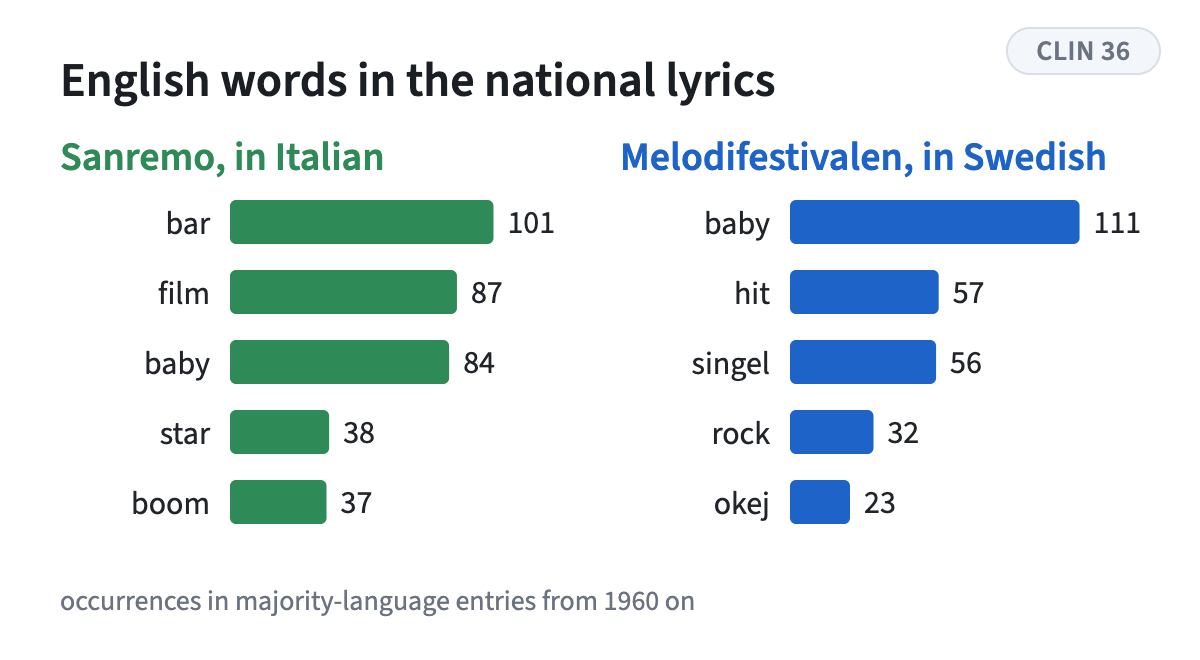
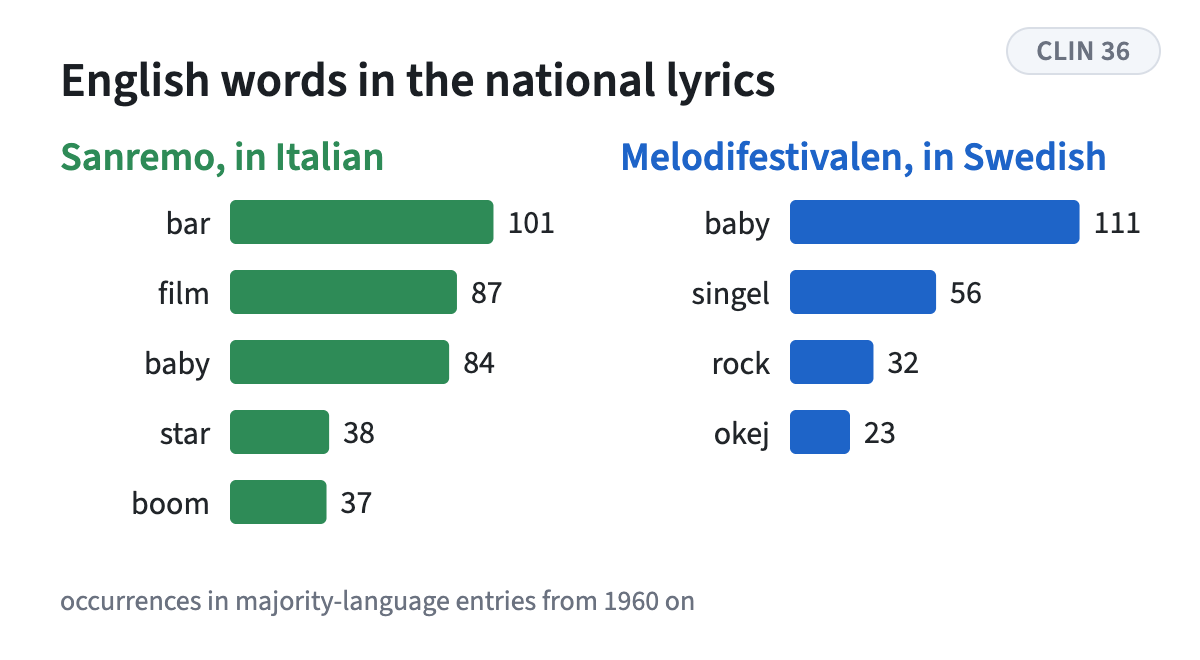
Descriptive BibTeX keys on every publication page and in publications.bib; drop the discarded 'hit' bar from the SanreMello anglicism chart

diff --git a/_figures/numbers.md b/_figures/numbers.md
@@ -30,4 +30,4 @@ Schematic only, no numbers. Source: the abstract on the publication page.
 Table 4, composite performance scores on the REMAIN frame, F1: local dependency preference +17.7, network connection strength +7.1, frequency-based priority -63.6. Section 4: best grammar F1 0.70 (precision 0.81, recall 0.61) with network connection strength. Source: the paper PDF in `phd_thomas/publications/`.
 
 ## 2026-clin36-sanremello (CLIN 36 poster)
-Dataset card of `sanremello/smlc-features`: 3,369 entries, Sanremo 2,220 across 76 editions (1951 to 2026), Melodifestivalen 1,149 across 66 editions (1958 to 2026), audio scored for 2,168 tracks. Anglicism occurrence counts from `mello_sanremo_nlp/docs/poster/examples.md` (majority-language entries from 1960 on): Sanremo bar 101, film 87, baby 84, star 38, boom 37; Melodifestivalen baby 111, hit 57, singel 56, rock 32, okej 23. The language-rule break at Melodifestivalen is 2002 (the national final kept Swedish until then), as corrected in the project after the abstract was submitted with 1999. Source: the book of abstracts, poster 30, pages 100 to 101.
+Dataset card of `sanremello/smlc-features`: 3,369 entries, Sanremo 2,220 across 76 editions (1951 to 2026), Melodifestivalen 1,149 across 66 editions (1958 to 2026), audio scored for 2,168 tracks. Anglicism occurrence counts from `mello_sanremo_nlp/docs/poster/examples.md` (majority-language entries from 1960 on): Sanremo bar 101, film 87, baby 84, star 38, boom 37; Melodifestivalen baby 111, singel 56, rock 32, okej 23 (hit, 57, was discarded from the data in the final version and is not drawn). The language-rule break at Melodifestivalen is 2002 (the national final kept Swedish until then), as corrected in the project after the abstract was submitted with 1999. Source: the book of abstracts, poster 30, pages 100 to 101.
